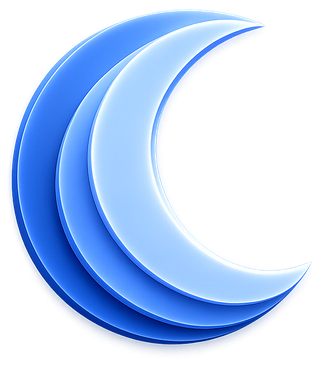
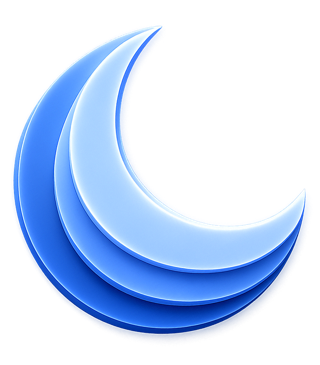
Extend main-page visual treatment to privacy/support; fix crescent tilt; tint white boxes
- privacy.html and support.html get the same gradient body + borderless
  nav as faq.html/index.html, and lose their wave-photo hero backgrounds
  (removed the now-unused .hero-photo divs from their markup too).
- assets/img/crescent.png (the nav/hero-mark icon shared by faq/privacy/
  support/the import-preview page) was still the old, shallower-tilted
  render — replaced with a resize of the app's own crescent-splash-
  cropped.png, the same source already used for crescent-nav.png/
  crescent-hero.png on index.html, so every crescent on the site now
  matches the app icon's tilt.
- base.css's --paper-2/--card tokens were literal #FFFFFF (light mode
  only) — every "white" box (search box, cards, pill-btn hover) read as
  flatly white against the blue gradient backgrounds. Switched to the
  app's own LIGHT_THEME.surfaceCard value (#FAFCFE, "slightly off-white
  card bg") rather than inventing a tint. Dark mode untouched.

diff --git a/quran-atlas/privacy.html b/quran-atlas/privacy.html
@@ -7,32 +7,29 @@
 <link rel="stylesheet" href="assets/css/base.css">
 <style>
 
+/* Same page background and nav treatment as index.html (the main site) —
+   copied verbatim from that page's own local overrides, not base.css's
+   shared flat-color default this page previously used, per explicit
+   "same bg color and visual treatment as the main page" request (applied
+   to faq.html first, now here and on support.html too). */
+body { background: linear-gradient(180deg, var(--bg-grad-1) 0%, var(--bg-grad-2) 70%, var(--bg-grad-3) 100%); }
+:root[data-theme="dark"] body { background: linear-gradient(180deg, var(--bg-grad-2) 0%, var(--bg-grad-3) 100%); }
+@media (prefers-color-scheme: dark) {
+  body { background: linear-gradient(180deg, var(--bg-grad-2) 0%, var(--bg-grad-3) 100%); }
+}
+.nav { background: color-mix(in srgb, var(--bg-grad-1) 78%, transparent); border-bottom: none; }
+:root[data-theme="dark"] .nav { background: color-mix(in srgb, var(--bg-grad-2) 78%, transparent); }
+@media (prefers-color-scheme: dark) {
+  .nav { background: color-mix(in srgb, var(--bg-grad-2) 78%, transparent); }
+}
+
 .hero {
-  position: relative; overflow:hidden;
   min-height: 30vh;
 }
-/* --hero-image is an SVG (gradient + soft wave shape), not a raster
-   photo — vector, so background-size:cover can scale it to fill the
-   full-bleed hero at any viewport width with no pixelation, unlike the
-   old JPG this replaced (which needed contain + edge-blending tricks
-   that turned out unreliable across browsers; see git history). */
-.hero-photo {
-  position:absolute; inset:0; z-index:0;
-  background-image: var(--hero-image);
-  background-size: cover; background-repeat: no-repeat; background-position: center bottom;
-}
-.hero::after {
-  content:""; position:absolute; inset:0; z-index:1;
-  /* Light mode: the artwork is a low-contrast pale wave, so a heavy fade
-     erased it almost entirely — stay much more transparent, only going
-     fully opaque right at the very bottom edge so it still blends
-     seamlessly into the section below. */
-  background: linear-gradient(180deg, color-mix(in srgb, var(--bg) 4%, transparent) 0%, color-mix(in srgb, var(--bg) 25%, transparent) 65%, var(--bg) 100%);
-}
-@media (prefers-color-scheme: dark) {
-  .hero::after { background: linear-gradient(180deg, color-mix(in srgb, var(--bg) 18%, transparent) 0%, var(--bg) 96%); }
-}
-:root[data-theme="dark"] .hero::after { background: linear-gradient(180deg, color-mix(in srgb, var(--bg) 18%, transparent) 0%, var(--bg) 96%); }
+/* Dropped the wave-photo background (.hero-photo div removed from the
+   markup below) + its fade overlay — index.html's own hero has neither;
+   it's a plain container sitting directly on the gradient body, so this
+   page's hero now matches that exactly. */
 .hero-inner {
   position:relative; z-index:2; max-width: 780px; margin:0 auto;
   padding: 56px 28px 48px; text-align:center;
@@ -99,7 +96,6 @@ section.block { padding: 56px 0; }
 
 <a id="top"></a>
 <section class="hero">
-  <div class="hero-photo"></div>
   <div class="hero-inner">
     <div class="hero-mark"><img src="assets/img/crescent.png" alt="" /></div>
     <p class="eyebrow"><span data-en>Privacy &amp; Data</span><span data-ar>الخصوصية والبيانات</span></p>

diff --git a/quran-atlas/support.html b/quran-atlas/support.html
@@ -12,31 +12,26 @@
    left instead of right. */
 html[data-lang="ar"] .arrow-fwd { transform: scaleX(-1); }
 
-.hero {
-  position: relative; overflow:hidden;
-}
-/* --hero-image is an SVG (gradient + soft wave shape), not a raster
-   photo — vector, so background-size:cover can scale it to fill the
-   full-bleed hero at any viewport width with no pixelation, unlike the
-   old JPG this replaced (which needed contain + edge-blending tricks
-   that turned out unreliable across browsers; see git history). */
-.hero-photo {
-  position:absolute; inset:0; z-index:0;
-  background-image: var(--hero-image);
-  background-size: cover; background-repeat: no-repeat; background-position: center bottom;
-}
-.hero::after {
-  content:""; position:absolute; inset:0; z-index:1;
-  /* Light mode: the artwork is a low-contrast pale wave, so a heavy fade
-     erased it almost entirely — stay much more transparent, only going
-     fully opaque right at the very bottom edge so it still blends
-     seamlessly into the section below. */
-  background: linear-gradient(180deg, color-mix(in srgb, var(--bg) 4%, transparent) 0%, color-mix(in srgb, var(--bg) 25%, transparent) 65%, var(--bg) 100%);
-}
+/* Same page background and nav treatment as index.html (the main site) —
+   copied verbatim from that page's own local overrides, not base.css's
+   shared flat-color default this page previously used, per explicit
+   "same bg color and visual treatment as the main page" request (applied
+   to faq.html and privacy.html too). */
+body { background: linear-gradient(180deg, var(--bg-grad-1) 0%, var(--bg-grad-2) 70%, var(--bg-grad-3) 100%); }
+:root[data-theme="dark"] body { background: linear-gradient(180deg, var(--bg-grad-2) 0%, var(--bg-grad-3) 100%); }
 @media (prefers-color-scheme: dark) {
-  .hero::after { background: linear-gradient(180deg, color-mix(in srgb, var(--bg) 18%, transparent) 0%, var(--bg) 96%); }
+  body { background: linear-gradient(180deg, var(--bg-grad-2) 0%, var(--bg-grad-3) 100%); }
 }
-:root[data-theme="dark"] .hero::after { background: linear-gradient(180deg, color-mix(in srgb, var(--bg) 18%, transparent) 0%, var(--bg) 96%); }
+.nav { background: color-mix(in srgb, var(--bg-grad-1) 78%, transparent); border-bottom: none; }
+:root[data-theme="dark"] .nav { background: color-mix(in srgb, var(--bg-grad-2) 78%, transparent); }
+@media (prefers-color-scheme: dark) {
+  .nav { background: color-mix(in srgb, var(--bg-grad-2) 78%, transparent); }
+}
+
+/* Dropped the wave-photo background (.hero-photo div removed from the
+   markup below) + its fade overlay — index.html's own hero has neither;
+   it's a plain container sitting directly on the gradient body, so this
+   page's hero now matches that exactly. */
 .hero-inner {
   position:relative; z-index:2; max-width: 780px; margin:0 auto;
   padding: 96px 28px 64px; text-align:center;
@@ -119,7 +114,6 @@ section.block { padding: 64px 0; }
 
 <a id="top"></a>
 <section class="hero">
-  <div class="hero-photo"></div>
   <div class="hero-inner">
     <div class="hero-mark"><img src="assets/img/crescent.png" alt="" /></div>
     <p class="eyebrow"><span data-en>Support &amp; Help Centre</span><span data-ar>الدعم ومركز المساعدة</span></p>

diff --git a/quran-atlas/assets/css/base.css b/quran-atlas/assets/css/base.css
@@ -24,7 +24,13 @@
   --ink-2: #121D33;
   --ink-3: #182746;
   --paper: #EAF1FB;
-  --paper-2: #FFFFFF;
+  /* Was pure #FFFFFF — every "white" box (search box, cards, pill-btn
+     hover) read as flatly white against this page's blue gradient
+     background, reported directly. Switched to the app's own real
+     surfaceCard value (LIGHT_THEME.surfaceCard, "slightly off-white card
+     bg") rather than inventing a new tint — same light-blue-off-white the
+     app itself uses for topic/pack cards. */
+  --paper-2: #FAFCFE;
   --paper-3: #F5F9FF;
 
   --accent: #2B5FA0;        /* LIGHT_THEME.accent / iconPrimary */
@@ -40,7 +46,7 @@
 
   --surface: var(--paper-2);
   --surface-2: var(--paper-3);
-  --card: #FFFFFF;
+  --card: var(--paper-2);   /* was a separate literal #FFFFFF — same fix, same value */
   --border: rgba(31,78,138,0.14);
   --border-solid: #B0C8DE;
 
@@ -121,7 +127,7 @@
   --bg-grad-3: #E4F0FC;
   --surface: var(--paper-2);
   --surface-2: var(--paper-3);
-  --card: #FFFFFF;
+  --card: var(--paper-2);
   --border: rgba(31,78,138,0.14);
   --border-solid: #B0C8DE;
   --accent: #2B5FA0;
